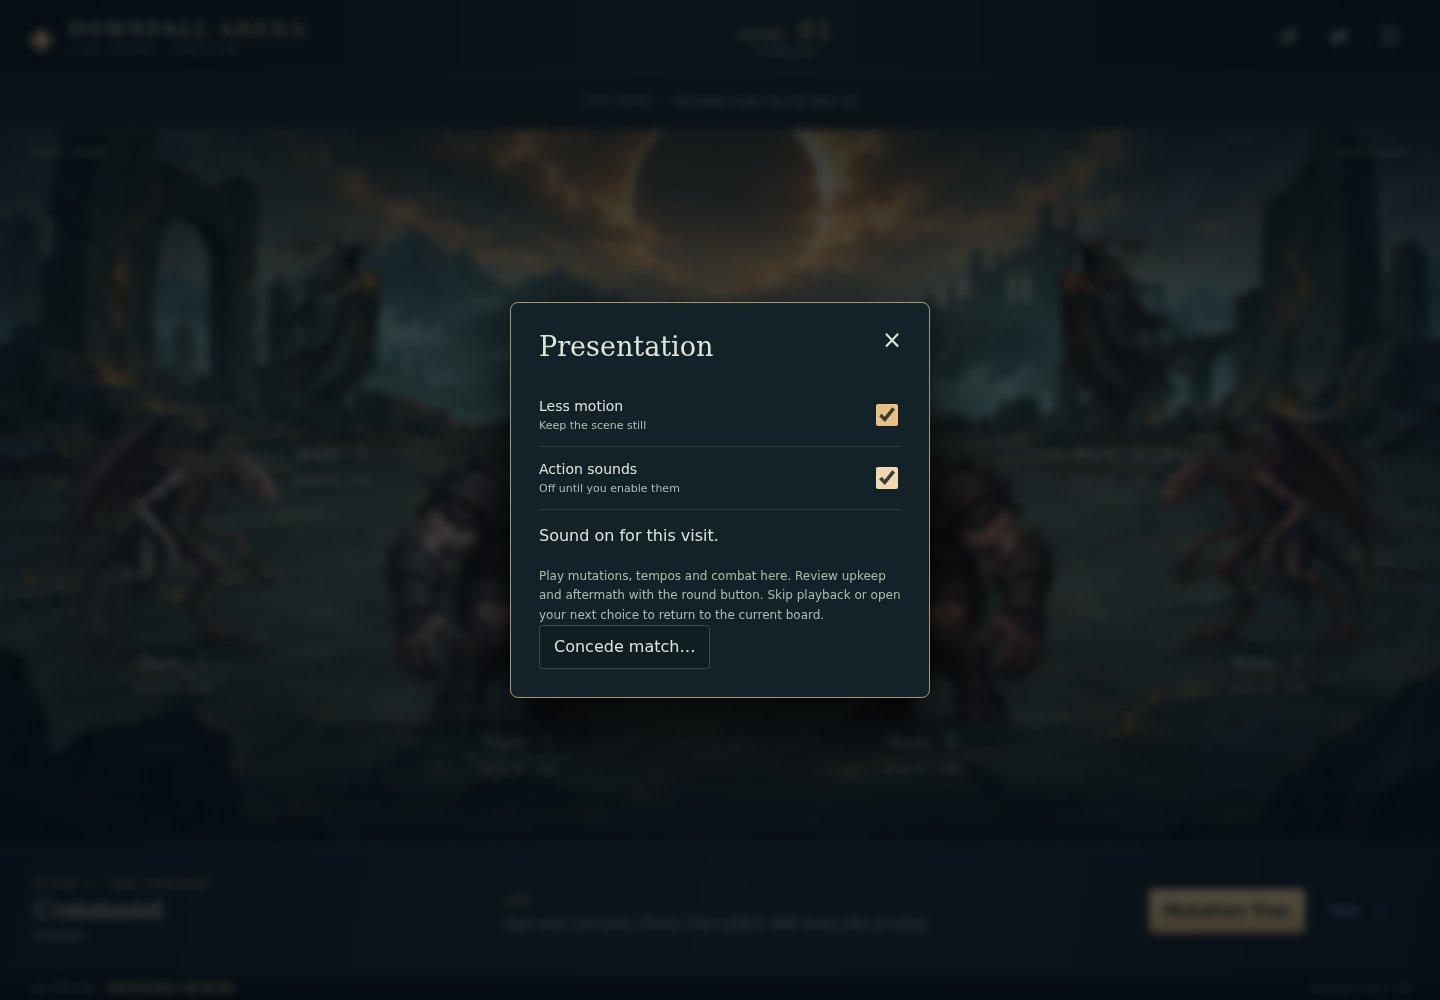
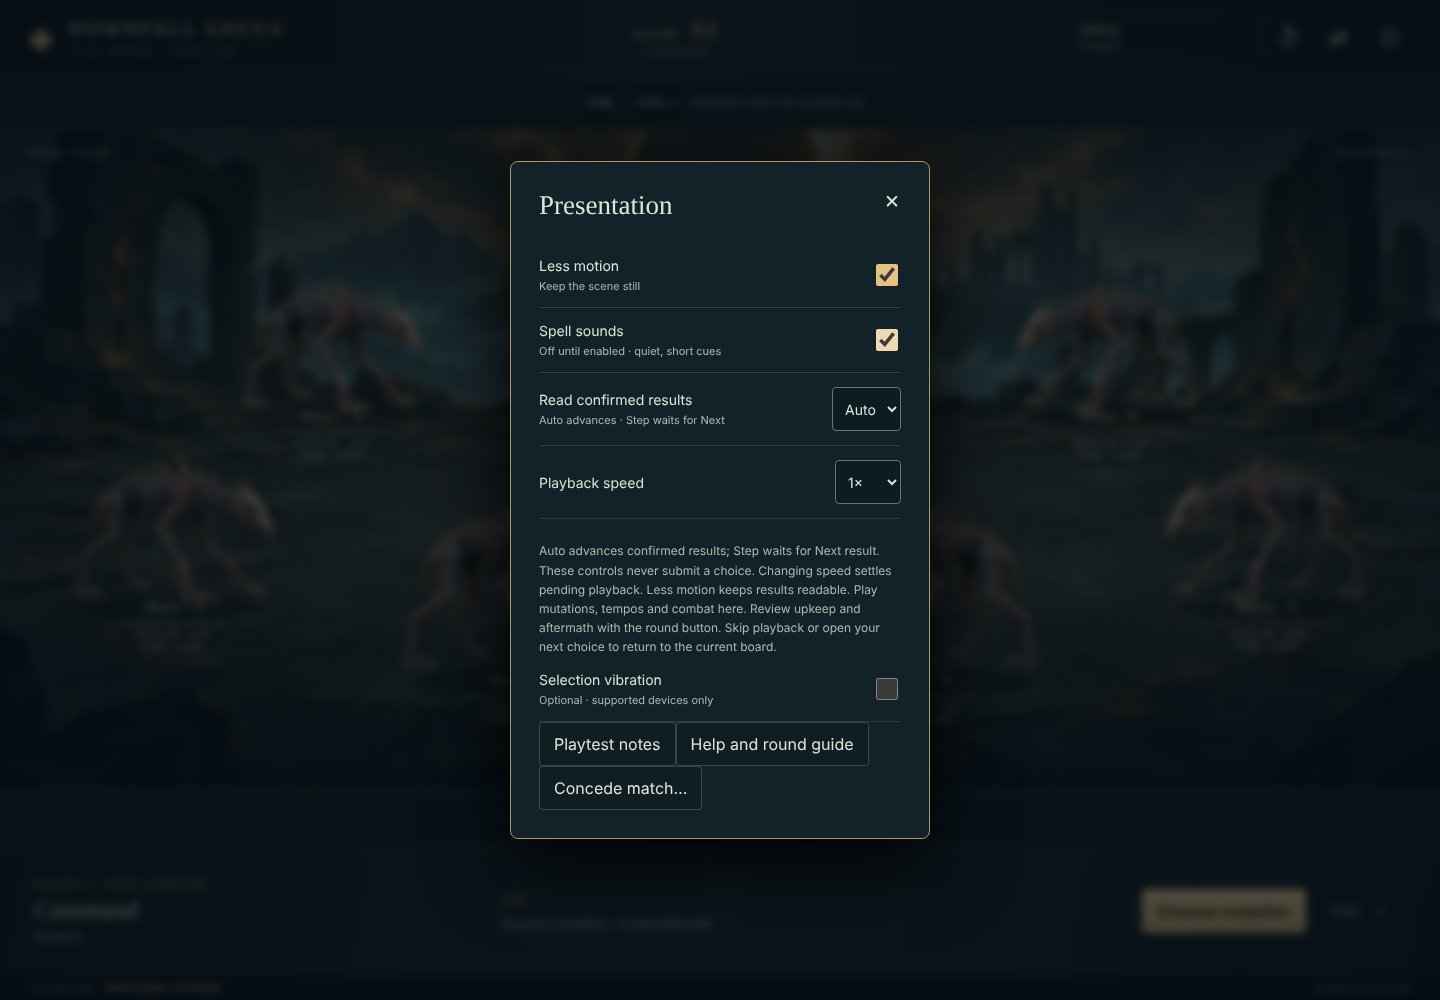
docs(arena): measure the reconciled release candidate and refresh its captures
The release profile's 14 desktop and Android cases pass on main in nine
minutes, which with WebKit's install and the build leaves no room under
the job's twenty: it gets thirty-five. The settings captures showed A8's
own sound row, which no longer exists; they are taken again from the
real-host match, with ART-6's.

Claude-Session: https://claude.ai/code/session_01EeBMay9XsGqa75DyLz9UDH

diff --git a/docs/tabletop/arena-release-acceptance.md b/docs/tabletop/arena-release-acceptance.md
@@ -54,6 +54,16 @@ replay; [the AU14 record](arena-ux-acceptance.md) lists the parity evidence feat
 Arena does not transfer a seat, accept an invitation, acknowledge a question or submit a decision; those
 actions keep their existing explicit boundaries. Invitations and account recovery stay at the table.
 
+## Local automated evidence after reconciliation (2026-11-05, on main `53af584a`)
+
+The release profile passed all 14 desktop Chromium and Android-profile cases locally in 9 minutes: both
+complete-match declarations with sound enabled, recorded sessions, simultaneous seats, the lobby rollout,
+renderer recovery, the keyboard/short-viewport check and the cold-scene sample. WebKit runs in CI; its
+native libraries are unavailable in the local container. The cold scene fetched `live.js` and exactly the
+five WebPs the scene loads. Sampled frame intervals on an idle loaded board, headless Chromium 153, one
+worker: 1440×1000 desktop 66.7 ms median / 83.4 ms 95th percentile; 412×839 Android profile at DPR 2.625,
+33.2 / 33.4 ms. As below, these are diagnostics of a software-rendered container, not device performance.
+
 ## Local automated evidence at first preparation (2026-11-04, on A7)
 
 On 2026-11-04, the six arena browser suites passed 225 cases with six pre-existing duplicate-viewport
